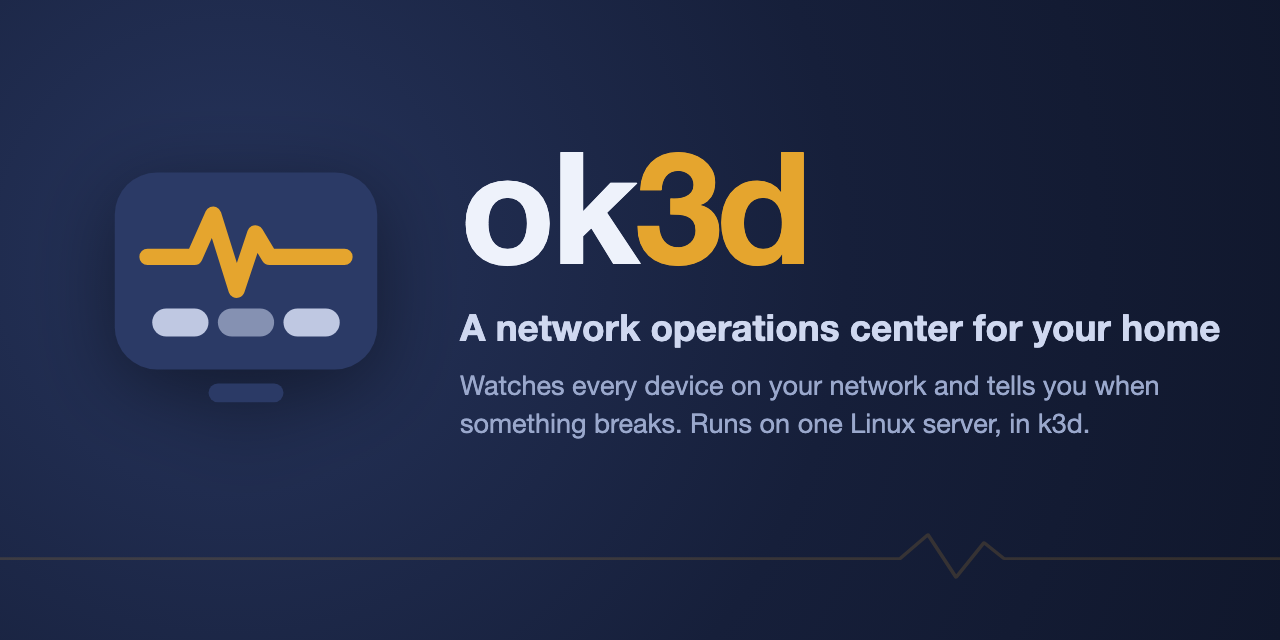
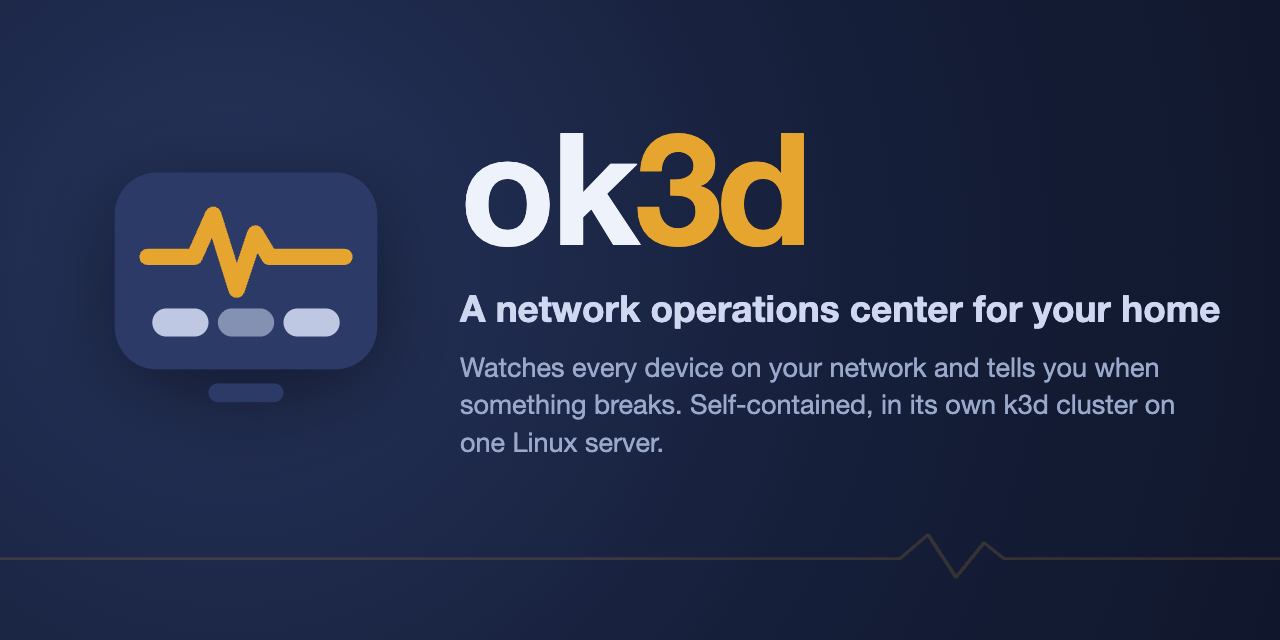
The social image: self-contained, in its own k3d cluster (#56)
The social image's last line changes from "Runs on one Linux server, in
k3d." to "Self-contained, in its own k3d cluster on one Linux server."

- `images/social-preview.html`: the new line.
- `images/social-preview.png`: rendered again with the commands in the
HTML's header comment, with its metadata stripped, and checked by eye
(1280 by 640, the text on three lines, nothing overlapping).
- `docs/roadmap.md`: a Done row.

`scripts/check.sh` passes. Once this is merged, upload the new PNG in
the repository's settings (Settings, General, Social preview): GitHub
doesn't read it from the repository.

🤖 Generated with [Claude Code](https://claude.com/claude-code)

diff --git a/images/social-preview.html b/images/social-preview.html
@@ -39,7 +39,7 @@ The logo is images/ok3d-logo.svg's, a shade lighter so it shows on the dark back
     <div>
       <h1>ok<span>3d</span></h1>
       <p class="tag">A network operations center for your home</p>
-      <p class="sub">Watches every device on your network and tells you when something breaks. Runs on one Linux server, in k3d.</p>
+      <p class="sub">Watches every device on your network and tells you when something breaks. Self-contained, in its own k3d cluster on one Linux server.</p>
     </div>
   </div>
 </body></html>

diff --git a/docs/roadmap.md b/docs/roadmap.md
@@ -73,6 +73,7 @@ that upgrades from the Dashboard alone. 0.6.0, logs and changes, comes next.
 | The Maintenance page says when lines in the helper's note can't be read, instead of "No maintenance windows" | Done ([#51](https://github.com/southsidedean/observability-k3d/pull/51)) |
 | Check said the upgrade from 0.5.0 would restart the gateway, and it didn't: Check counted the chart's label as a restart, and now counts only a changed pod template | Done ([#50](https://github.com/southsidedean/observability-k3d/pull/50)) |
 | A social image for GitHub, with its source in `images/` | Done ([#52](https://github.com/southsidedean/observability-k3d/pull/52)) |
+| The social image says ok3d is self-contained, in its own k3d cluster | Done ([#56](https://github.com/southsidedean/observability-k3d/pull/56)) |
 | Fixes from the 0.5.2 review: the charts and alerts | Done ([#53](https://github.com/southsidedean/observability-k3d/pull/53)) |
 | Fixes from the 0.5.2 review: the shell, the installer, and the git hooks | Done ([#54](https://github.com/southsidedean/observability-k3d/pull/54)) |
 | Release 0.5.2, tested with an upgrade from 0.5.1 from the Dashboard alone | Planned |
